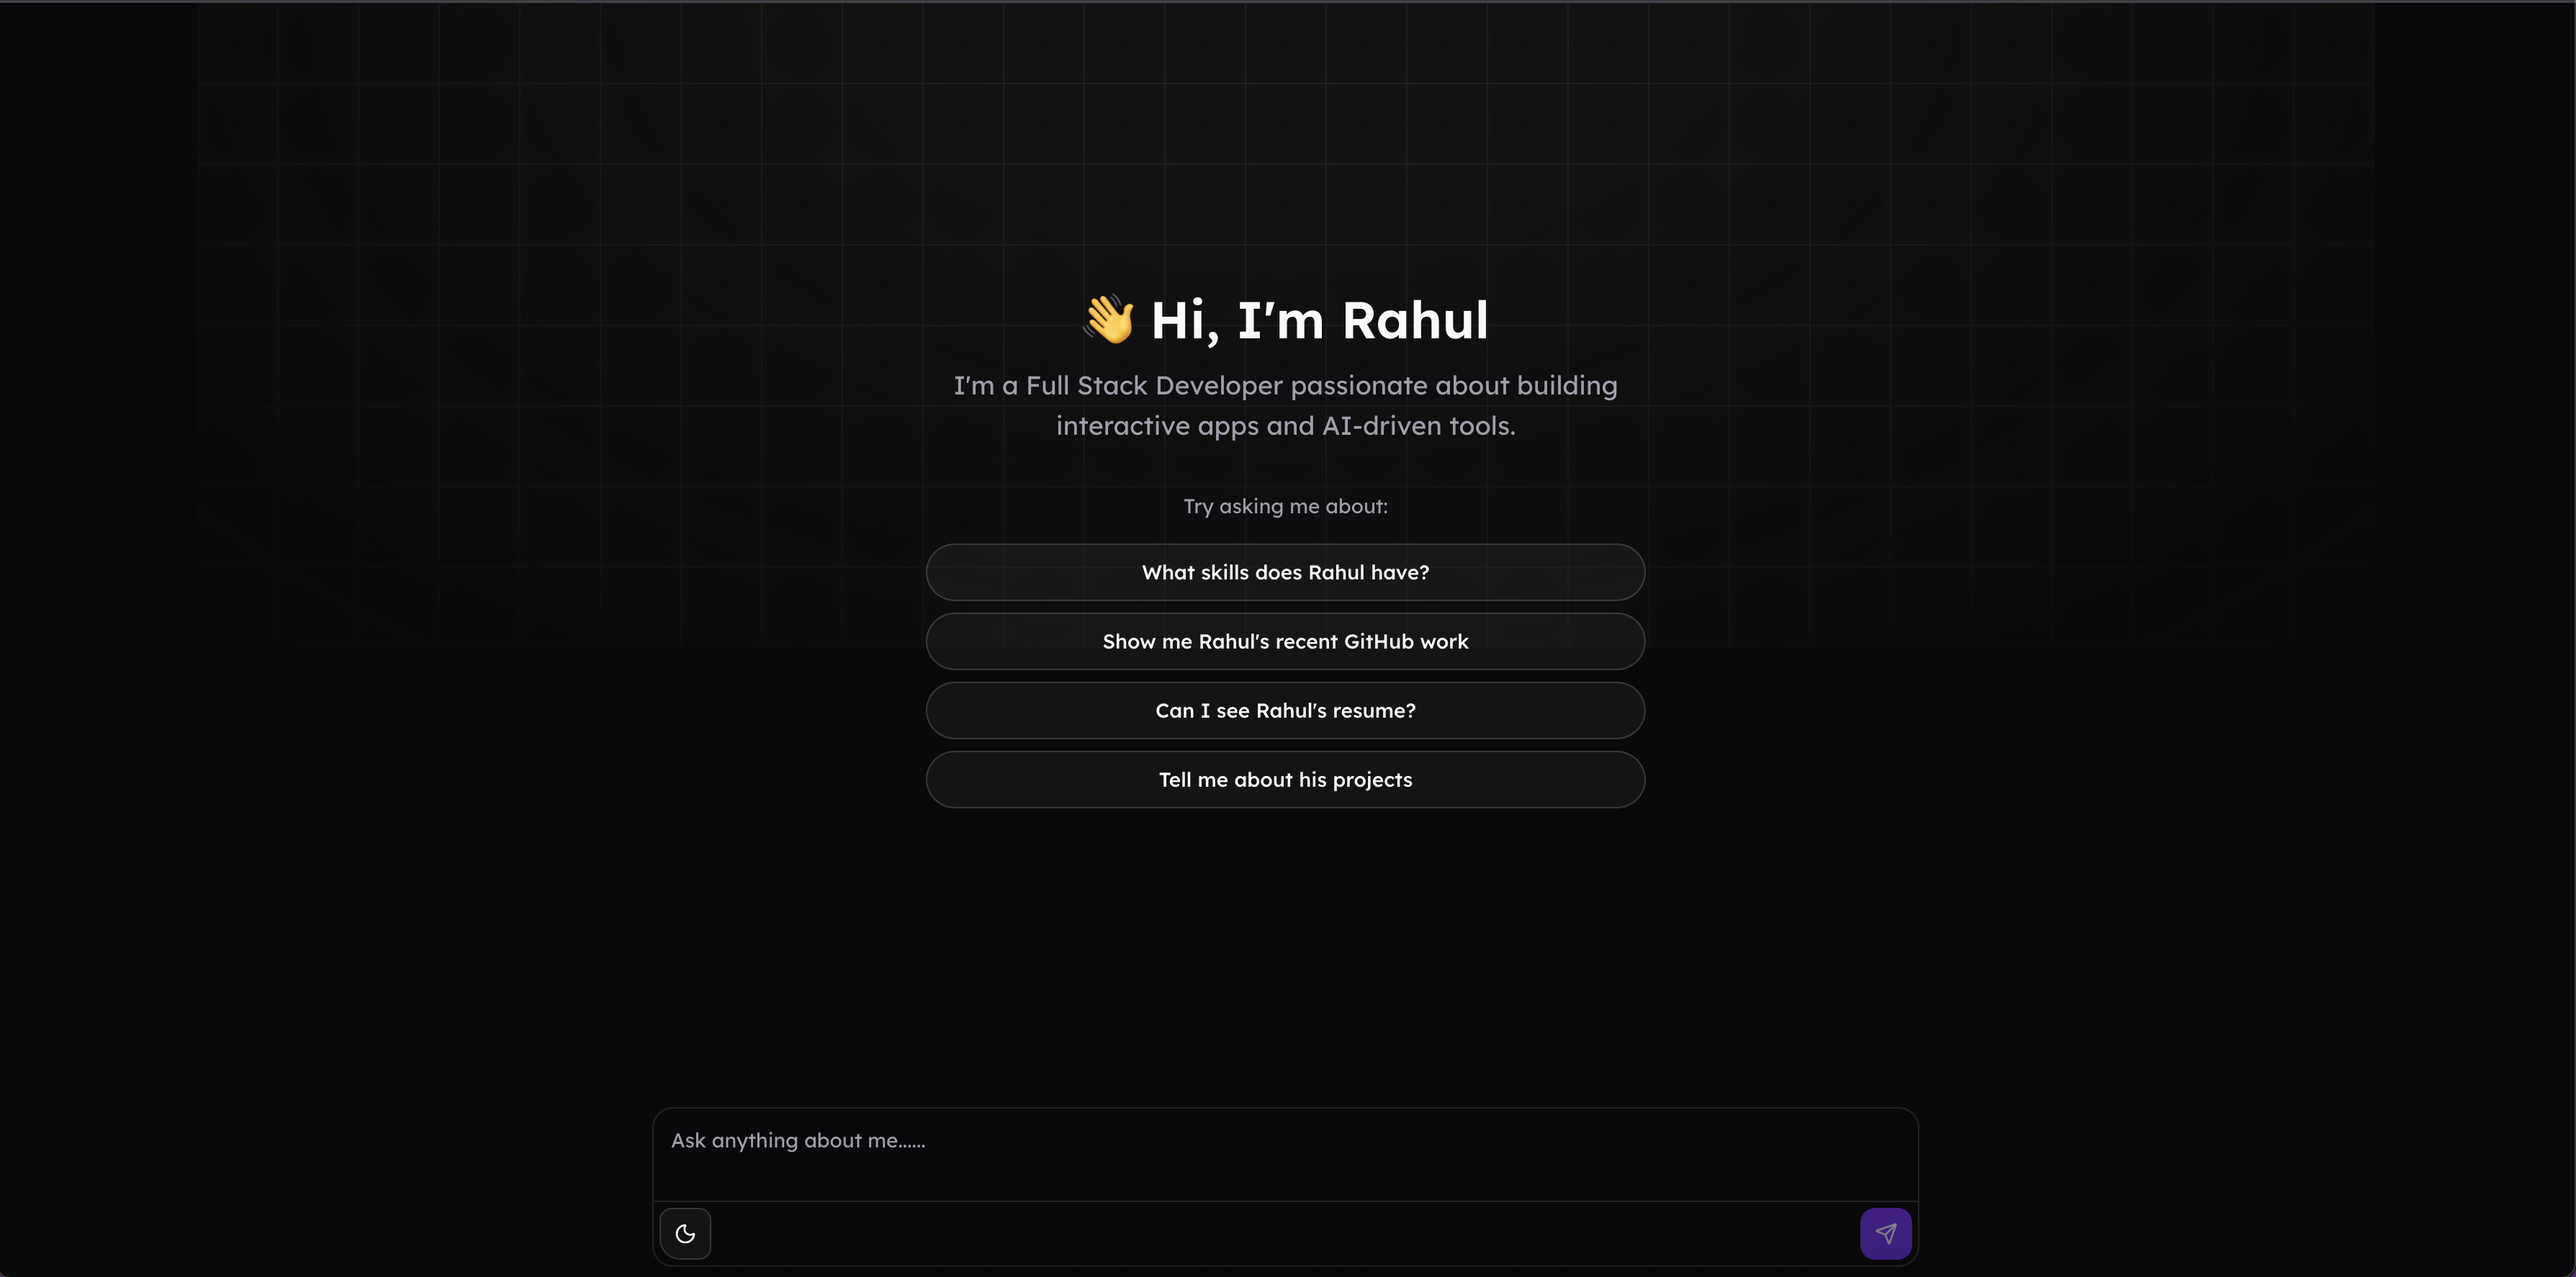
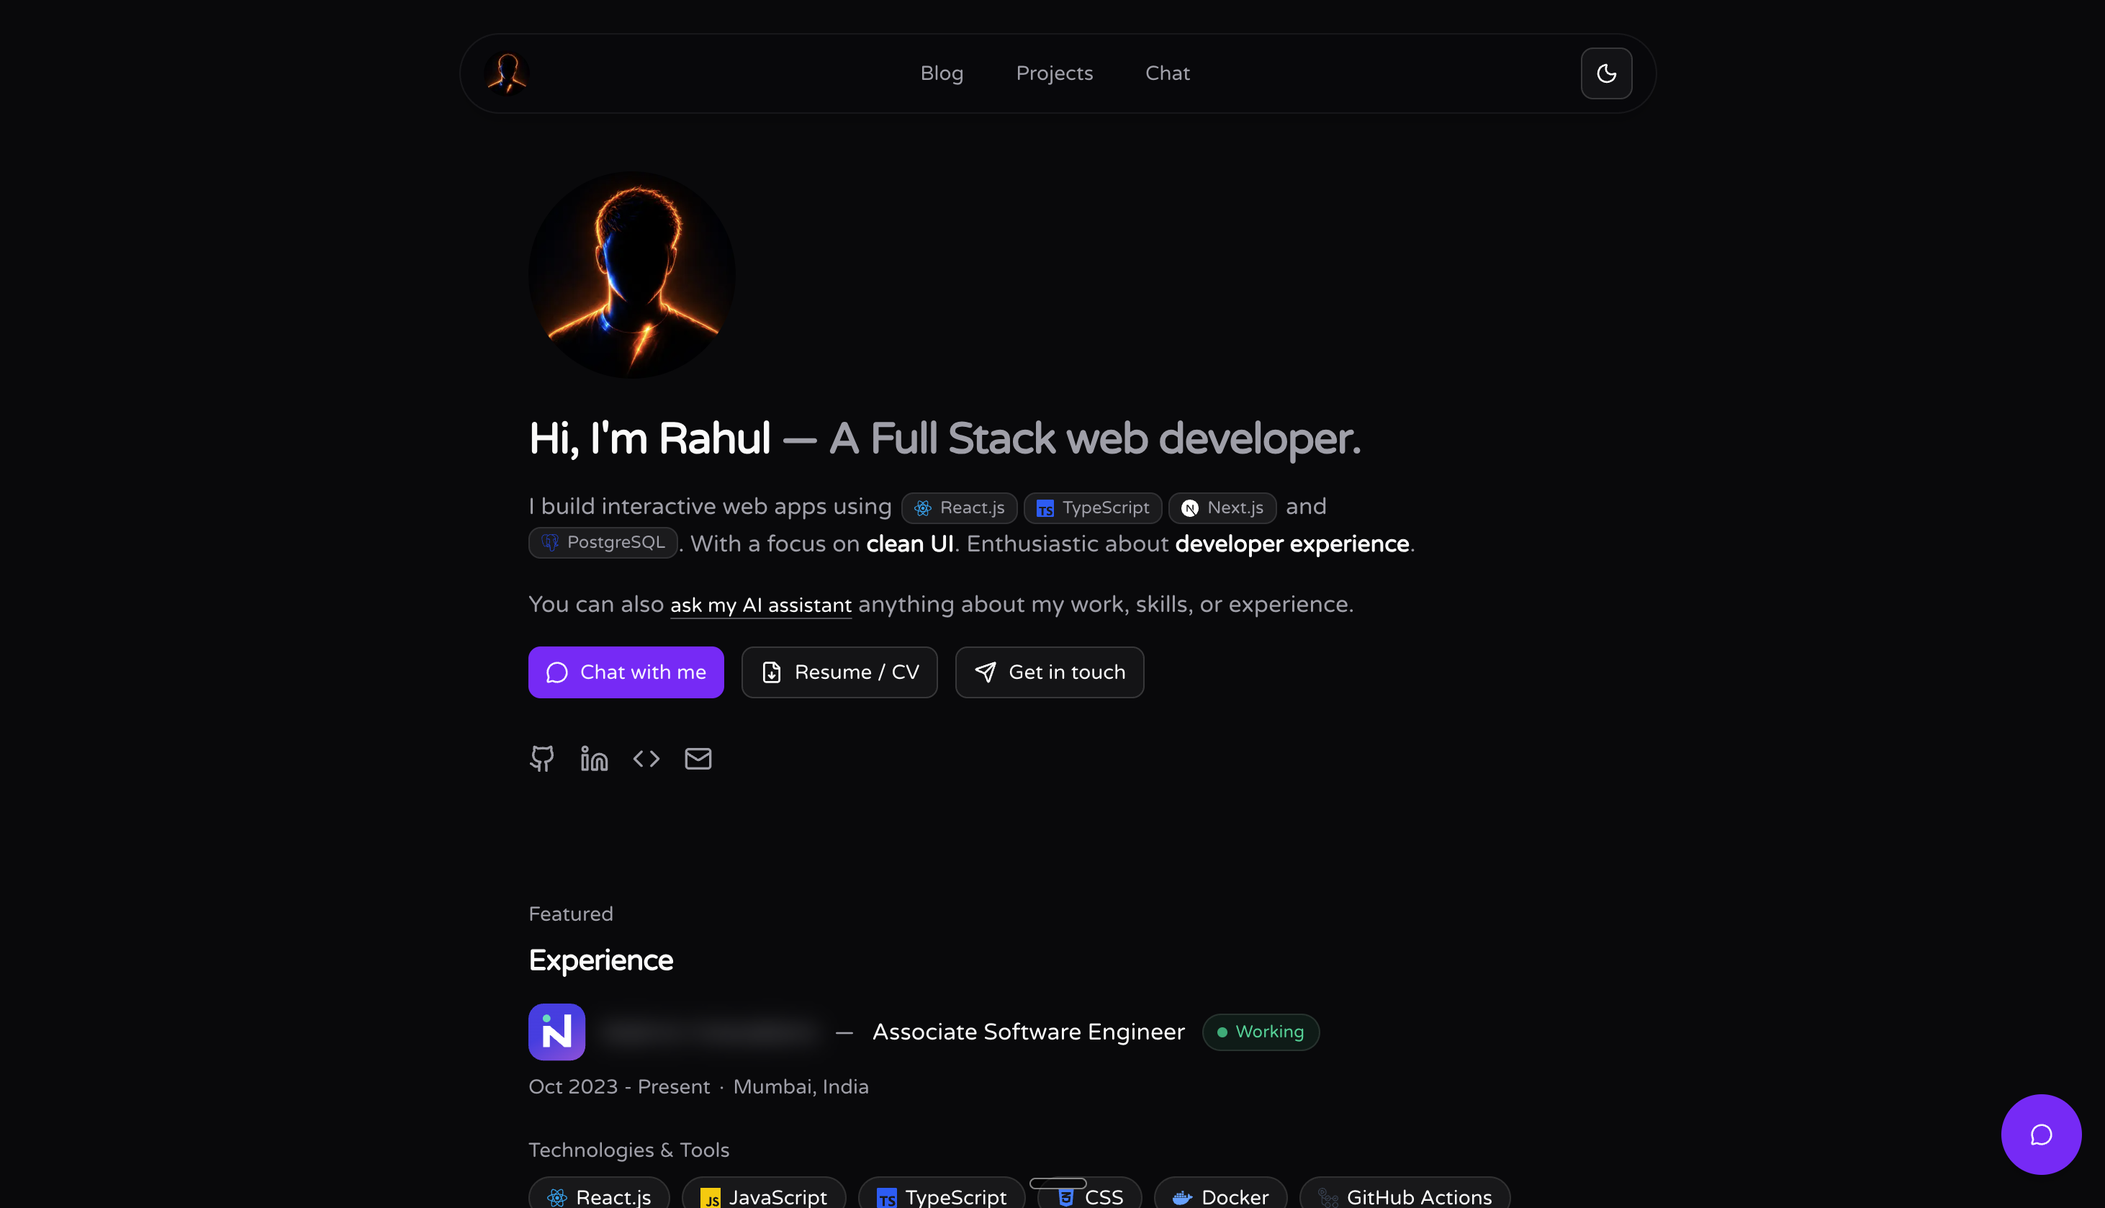
feat: enhance README and blog metadata, update assets and remove unused files

diff --git a/app/blog/[slug]/page.tsx b/app/blog/[slug]/page.tsx
@@ -16,7 +16,9 @@ export async function generateStaticParams() {
   return posts.map((post) => ({ slug: post.slug }));
 }
 
-export async function generateMetadata({ params }: PageProps): Promise<Metadata> {
+export async function generateMetadata({
+  params,
+}: PageProps): Promise<Metadata> {
   const { slug } = await params;
   const post = await getBlogPost(slug);
   if (!post) return { title: "Post not found" };
@@ -117,7 +119,7 @@ export default async function BlogPostPage({ params }: PageProps) {
         </header>
 
         {post.frontmatter.image ? (
-          <div className="relative w-full aspect-[2/1] rounded-lg overflow-hidden border border-border mb-10">
+          <div className="relative w-full aspect-2/1 rounded-lg overflow-hidden border border-border mb-10">
             <Image
               src={post.frontmatter.image}
               alt={post.frontmatter.imageAlt ?? post.frontmatter.title}

diff --git a/app/layout.tsx b/app/layout.tsx
@@ -43,6 +43,18 @@ export const metadata: Metadata = {
     description: "Interactive portfolio with AI-powered chat interface",
     type: "website",
     url: "/",
+    images: [
+      {
+        url: "/rahul-bot-logo.png",
+        alt: "Rahul Rana",
+      },
+    ],
+  },
+  twitter: {
+    card: "summary_large_image",
+    title: "Rahul Rana | Full Stack Developer",
+    description: "Interactive portfolio with AI-powered chat interface",
+    images: ["/rahul-bot-logo.png"],
   },
 };
 

diff --git a/README.md b/README.md
@@ -1,28 +1,77 @@
-# 🤖 Rahul's AI Portfolio Assistant
+# Rahul Rana — Interactive AI Portfolio
 
-An interactive AI-powered portfolio that helps visitors explore Rahul's skills, projects, experiences, education, and more — all through natural conversation.  
-The assistant responds in a structured + conversational format, making it easy to showcase information dynamically.
+This repository hosts an interactive portfolio built with Next.js and TypeScript that includes an AI-powered chat interface to explore projects, skills, experience, education, and more.
 
-![Screenshot](./public/chat-bot-preview.png)
+Live demo: https://rahul-bot.vercel.app/
 
-## 🚀 Features
-- 💬 AI Chatbot that answers questions about Rahul  
-- 📂 Structured responses for Skills, Projects, Experiences, Education, Socials, Resume  
-- 🎨 Modern UI with clean, minimal design  
-- ⚡ Built with React, TypeScript, and Next.js  
-- 🔗 Quick access to GitHub, LinkedIn, and other socials  
+![Preview](./public/chat-bot-preview.png)
 
+## Key Features
 
-## 📦 Tech Stack
-- **Frontend:** React, Next.js, TypeScript, TailwindCSS  
-- **AI:** Custom system prompt + JSON structured responses  
-- **Deployment:** Vercel  
+- Conversational AI assistant for the portfolio (structured + natural responses)
+- Browse projects, work experience, education, and social links via chat
+- Rich MDX blog support with generated table-of-contents
+- Theme switching and accessible components
+- Small, focused component library in `components/` and `ui/`
 
-## 🎯 Usage
-Start a conversation by asking things like:
-- _"What skills does Rahul have?"_  
-- _"Can I see Rahul’s resume?"_  
-- _"Tell me about his projects."_  
+## Project Structure (high level)
 
-## 📜 License
-MIT License
+- `app/` — Next.js App Router pages and API routes
+- `components/` — UI and feature components (chat, header, cards, etc.)
+- `content/` — Structured content for profile, projects, blog, skills, experience
+- `lib/` — helper utilities (MDX compilation, site URL, parsing)
+- `assets/` & `public/` — icons, images, and static files
+- `prompt/` — system prompt & AI configuration
+- `types/` — shared TypeScript types
+
+## Tech Stack
+
+- Next.js (App Router)
+- React + TypeScript
+- Tailwind CSS
+- Vercel for deployment
+
+## Local Development
+
+1. Install dependencies (uses pnpm):
+
+```bash
+pnpm install
+```
+
+2. Run the dev server:
+
+```bash
+pnpm dev
+```
+
+3. Visit `http://localhost:3000`
+
+Notes:
+
+- Content for the site is driven from `content/` and MDX files under `content/blog/`.
+- The chat assistant prompt and behavior live under `prompt/` and `lib/parse-message.ts`.
+
+## Adding or Removing Assets
+
+- Static assets live in `public/` (images, logos, PDFs). Component icons are under `assets/icons/`.
+- If you remove an asset, search the codebase for references to its filename before deleting.
+
+## Deployment
+
+Deploy to Vercel (recommended). The site is configured for static and server-rendered pages via Next.js app router.
+
+## Troubleshooting Link Previews
+
+- To ensure social previews include the image, add Open Graph/Twitter metadata in `app/layout.tsx` and redeploy.
+- Use platform validators to refresh caches:
+  - Facebook Sharing Debugger: https://developers.facebook.com/tools/debug/
+  - Twitter Card Validator: https://cards-dev.twitter.com/validator
+
+## Contributing
+
+- Open a PR with changes. Follow existing code style and TypeScript types.
+
+## License
+
+MIT
